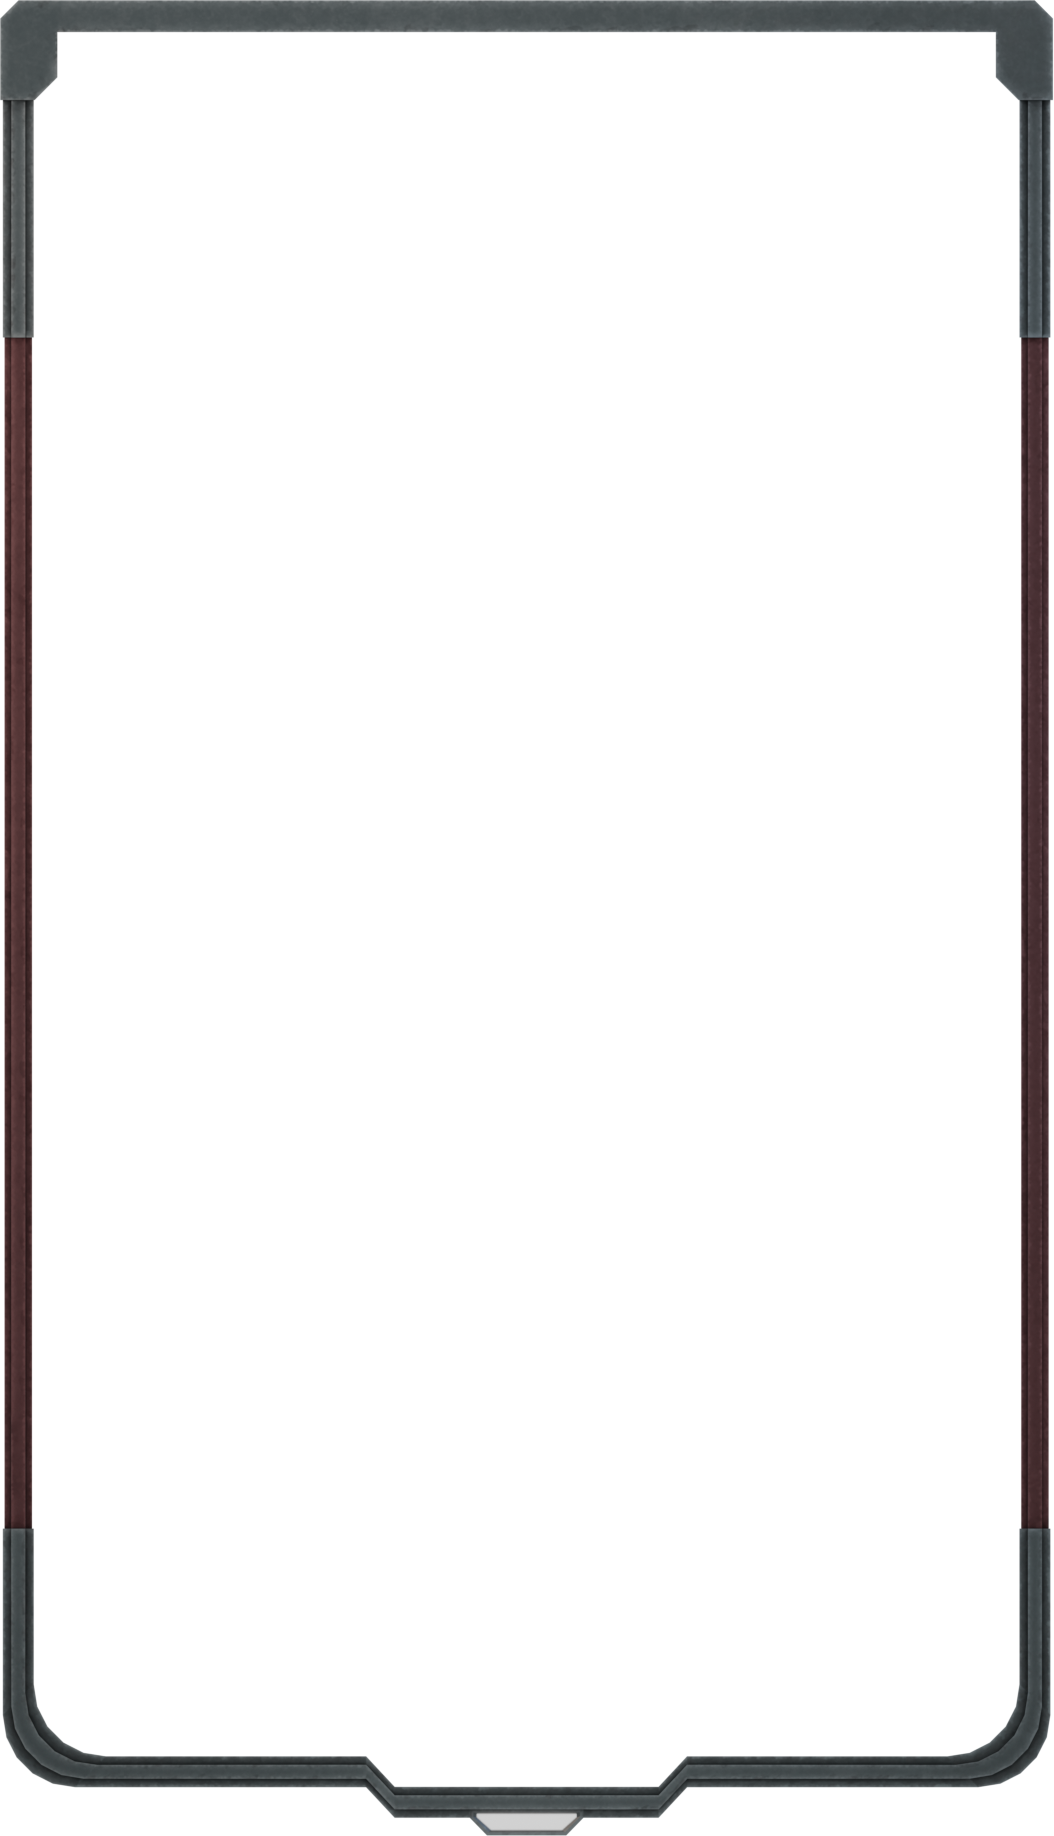
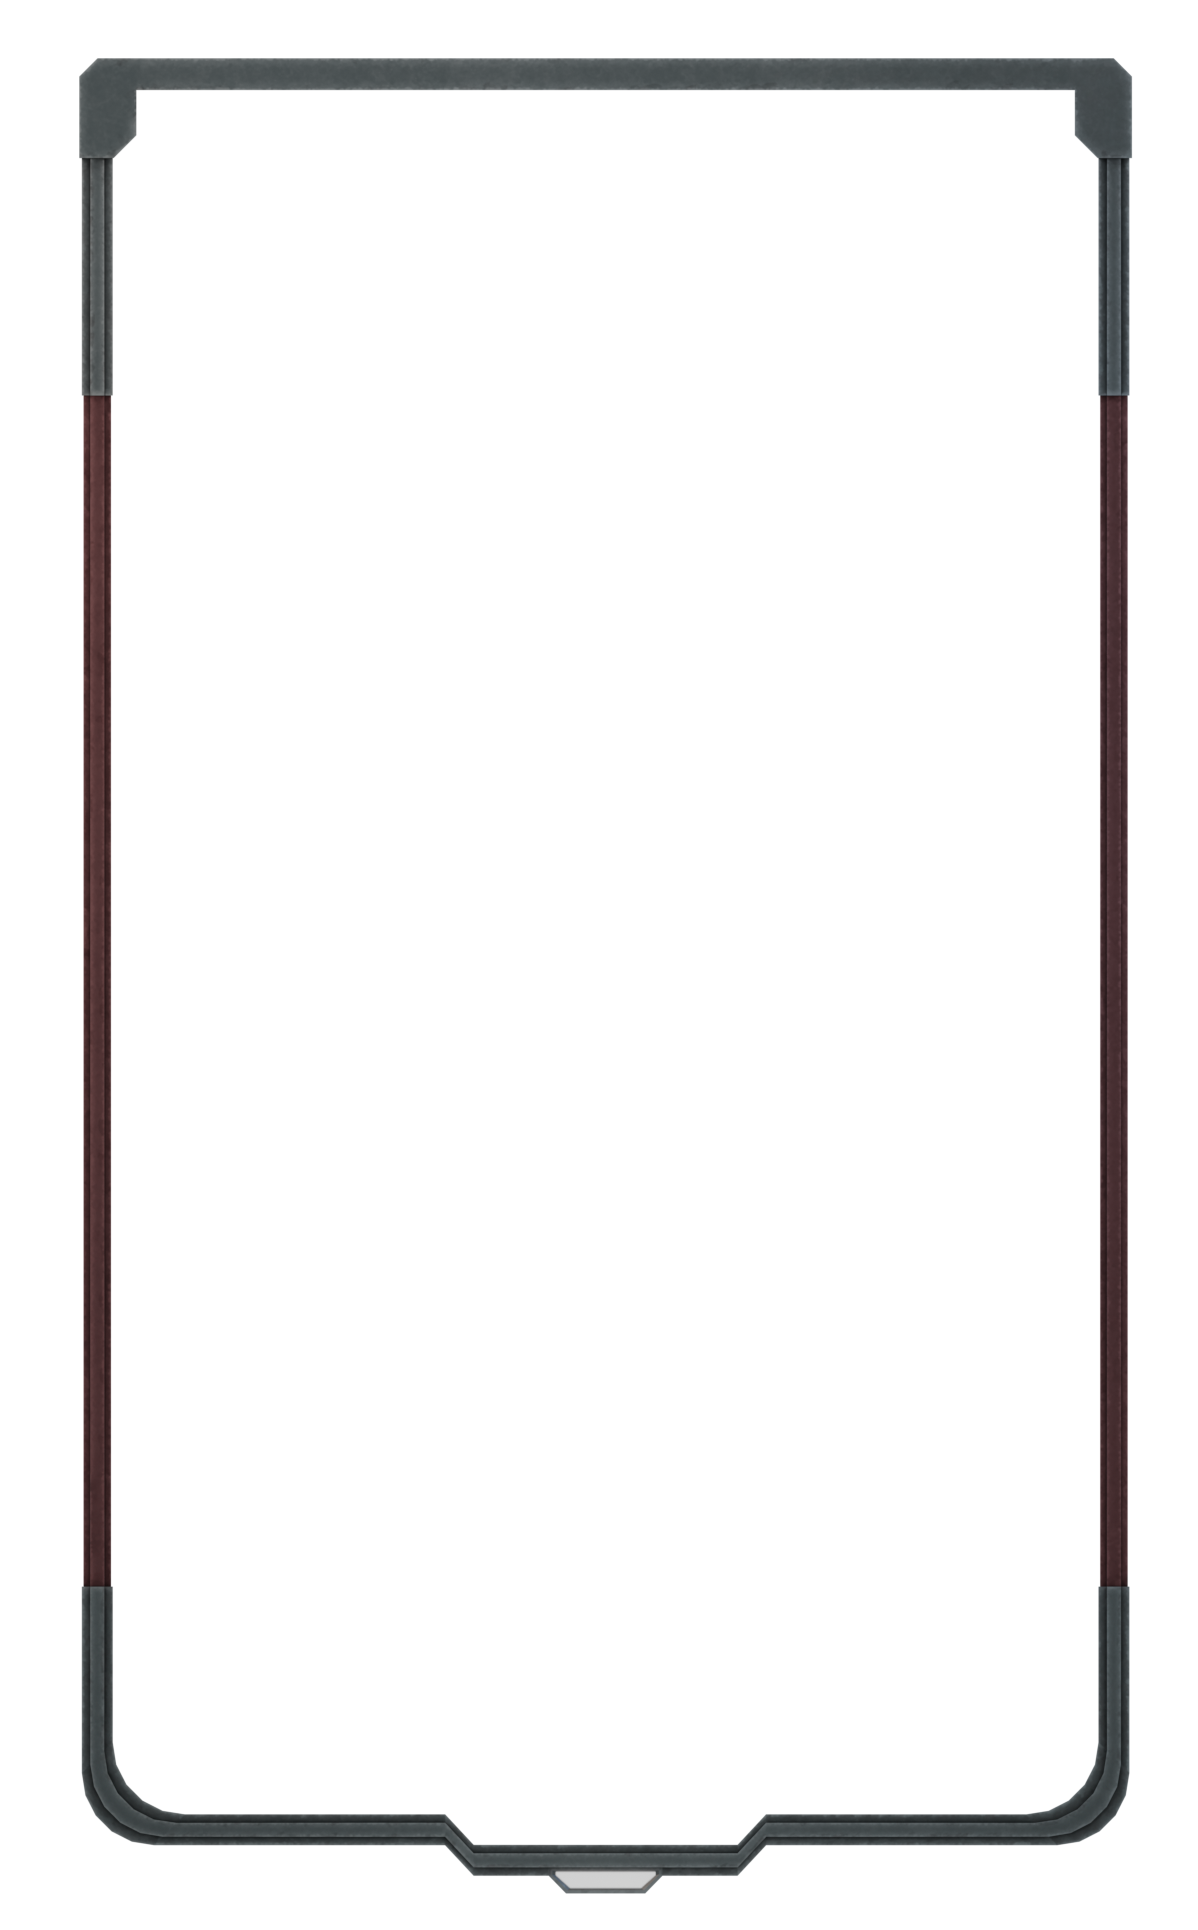
EMFXD-1691: Add first edition frames (#25)
* feat: :sparkles: added first edition images to the public storage of the dashboard

* feat: :sparkles: added frame first edition toggle button

* fix: :sparkles: update frames

* fix: :art: update frames again due the pixel mismatch

Changed region(s): [[0.0, 0.0, 1.0, 1.0]]

diff --git a/src/features/FoxtrotCardMaker/components/CardView.tsx b/src/features/FoxtrotCardMaker/components/CardView.tsx
@@ -38,6 +38,7 @@ const CardView = ({ showFrame = true }: Props) => {
     selectedImage,
     loadingCardContent,
     editorState,
+    isFirstEdition,
   } = useCardStore(
     (state) => ({
       loadingCardContent: state.loadingState.cardContent,
@@ -48,11 +49,14 @@ const CardView = ({ showFrame = true }: Props) => {
       cardHealth: state.cardState.stats.health,
       cardMana: state.cardState.stats.mana,
       cardType: state.cardState.type,
+      isFirstEdition: state.cardState.isFirstEdition,
       selectedImage: state.cardState.selectedImage,
       editorState: state.editorState,
     }),
     shallow
   );
+
+  const frameFirstEditionPath = `${isFirstEdition ? '/firstEdition/' : '/'}`;
 
   return (
     <>
@@ -70,7 +74,7 @@ const CardView = ({ showFrame = true }: Props) => {
         {showFrame && (
           <>
             <Frame
-              image={`/images/parts/frames/${cardRarity}/${cardFaction}.png`.toLowerCase()}
+              image={`/images/parts/frames/${cardRarity}${frameFirstEditionPath}${cardFaction}.png`.toLowerCase()}
             />
             <Mana value={cardMana} />
 

diff --git a/src/features/FoxtrotCardMaker/stores/CardStore.ts b/src/features/FoxtrotCardMaker/stores/CardStore.ts
@@ -17,6 +17,7 @@ interface CardState {
     attack: number;
     health: number;
   };
+  isFirstEdition?: boolean;
   type?: TCardType;
   downloadQuality: number;
   selectedImage?: string | undefined;
@@ -45,6 +46,7 @@ export interface CardStore {
   setCardState: (cardState: CardState) => void;
   setDownloadQuality: (quality: number) => void;
   setLoading: (loading: LoadingState) => void;
+  setFirstEdition: (value: boolean) => void;
 }
 
 export const initialCardState: CardState = {
@@ -56,6 +58,7 @@ export const initialCardState: CardState = {
     attack: 1,
     health: 1,
   },
+  isFirstEdition: false,
   type: undefined,
   downloadQuality: 1,
   selectedImage: undefined,
@@ -149,6 +152,11 @@ const store = (set: StoreSet) => ({
   setImageSize: (size: boolean) => {
     set((state) => {
       state.imageSize = size;
+    });
+  },
+  setFirstEdition: (value: boolean) => {
+    set((state) => {
+      state.cardState.isFirstEdition = value;
     });
   },
 });

diff --git a/src/features/FoxtrotCardMaker/components/Form/FirstEditionCheckbox.tsx b/src/features/FoxtrotCardMaker/components/Form/FirstEditionCheckbox.tsx
@@ -1,0 +1,32 @@
+import { Checkbox } from '@chakra-ui/react'
+import { useCardStore } from 'features/FoxtrotCardMaker/stores/CardStore';
+import React from 'react'
+import shallow from 'zustand/shallow';
+import { BoxFieldset } from '../../../../common/components/BoxFieldset';
+
+const FirstEditionCheckbox = () => {
+
+  const { isFirstEdition, setFirstEdition } = useCardStore(
+    (state) => ({
+      isFirstEdition: state.cardState.isFirstEdition,
+      setFirstEdition: state.setFirstEdition,
+    }),
+    shallow
+  );
+
+  return (
+    <BoxFieldset label="Extras">
+      <Checkbox
+      checked={isFirstEdition}
+      defaultChecked={isFirstEdition}
+      onChange={(
+        event: React.ChangeEvent<HTMLInputElement>
+      ) => {
+        setFirstEdition(event.target.checked);
+      }}
+      >First edition</Checkbox>
+    </BoxFieldset>
+  )
+}
+
+export default FirstEditionCheckbox

diff --git a/src/features/FoxtrotCardMaker/components/CardGeneratorForm.tsx b/src/features/FoxtrotCardMaker/components/CardGeneratorForm.tsx
@@ -1,6 +1,6 @@
 import React, { Suspense } from "react";
 
-import { Box, Divider, Flex } from "@chakra-ui/react";
+import { Box, Checkbox, Divider, Flex } from "@chakra-ui/react";
 import {
   AttackInput,
   DescriptionEditor,
@@ -15,6 +15,7 @@ import {
 } from "features/FoxtrotCardMaker/components/Form";
 
 import ResetForm from "./Form/ResetForm";
+import FirstEditionCheckbox from "./Form/FirstEditionCheckbox";
 
 const CardGeneratorForm = () => {
   return (
@@ -72,6 +73,7 @@ const CardGeneratorForm = () => {
             >
               <FactionSelection />
               <RaritySelector />
+              <FirstEditionCheckbox/>
             </Flex>
           </Box>
           <Flex justify="flex-end" flexDirection="column">

diff --git a/src/common/components/BoxFieldset.tsx b/src/common/components/BoxFieldset.tsx
@@ -1,0 +1,31 @@
+import { Box, BoxProps } from '@chakra-ui/react';
+
+export type BoxFieldsetProps = BoxProps & {
+  children: React.ReactNode;
+  label: string;
+}
+
+export const BoxFieldset = (props: BoxFieldsetProps) => {
+  const { label, children, ...restProps } = props;
+
+  return (
+    <Box as="fieldset"
+      border="1px solid"
+      borderColor="neutrals.800"
+      borderRadius="md" p={2}
+      marginTop={2} {...restProps}
+    >
+      <Box as="legend"
+        border="1px solid"
+        borderColor="neutrals.800"
+        borderRadius="base"
+        borderStyle="dotted"
+        padding="0.2em 0.8em"
+        marginLeft="1em
+      ">
+        {label}
+      </Box>
+      {children}
+    </Box>
+  );
+};

diff --git a/src/features/FoxtrotCardMaker/components/Form/ImportCard.tsx b/src/features/FoxtrotCardMaker/components/Form/ImportCard.tsx
@@ -74,6 +74,7 @@ const ImportCard = () => {
         type: type?.toLowerCase() as TCardType,
         downloadQuality: downloadQuality,
         selectedImage: image,
+        isFirstEdition: false,
       });
 
       setLoading({ qualityValue: true });

diff --git a/src/features/FoxtrotCardMaker/components/Parts/Frame.tsx b/src/features/FoxtrotCardMaker/components/Parts/Frame.tsx
@@ -8,10 +8,10 @@ export const Frame = ({
   <image
     id="mNeutral"
     type="MSBitmapLayer"
-    x={5}
-    y={29}
-    width={763}
-    height={1050}
+    x={0}
+    y={0}
+    width={764}
+    height={1100}
     href={image}
   />
 );
